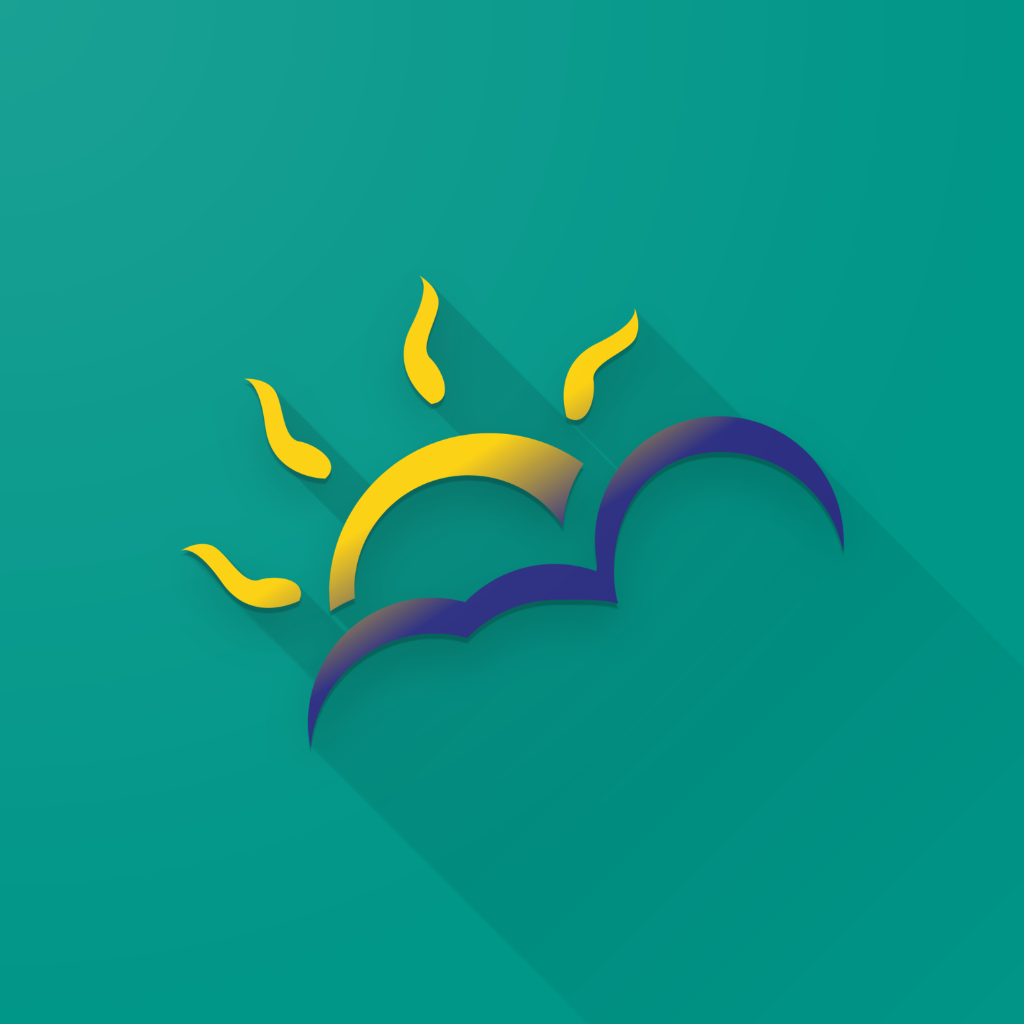
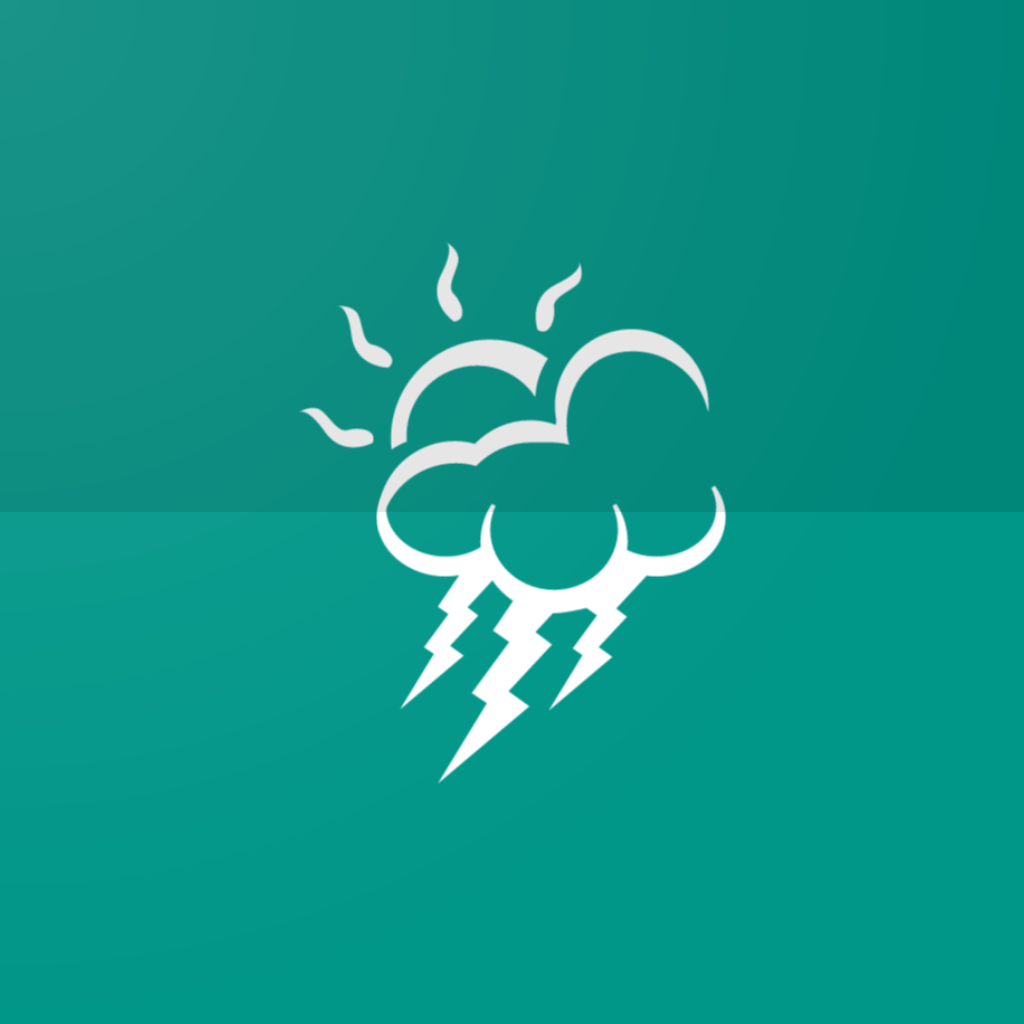
release v2.3.0
-new logo
-app logo was removed from more screen
-apk update

Changed region(s): [[0.1875, 0.25, 0.8438, 0.75], [0.3125, 0.2812, 0.3438, 0.3125]]

diff --git a/lib/screens/more_screen.dart b/lib/screens/more_screen.dart
@@ -6,8 +6,8 @@ import 'package:flutter_weather/preferences/shared_prefs.dart';
 import 'package:flutter_weather/preferences/theme_colors.dart';
 import 'package:flutter_weather/screens/home_screen.dart';
 import 'package:package_info/package_info.dart';
+import 'package:url_launcher/url_launcher.dart';
 
-import 'loading_screen.dart';
 
 class MoreScreen extends StatefulWidget {
   @override
@@ -110,20 +110,6 @@ class _MoreScreenState extends State<MoreScreen> {
                             fontWeight: FontWeight.bold,
                             fontSize: 18,
                             color: Colors.white),
-                      ),
-                    ),
-                    Positioned(
-                      top: 22,
-                      right: 15,
-                      child: Container(
-                        height: 70,
-                        width: 70,
-                        decoration: BoxDecoration(
-                          image: DecorationImage(
-                            image: AssetImage("assets/logo.png"),
-                            fit: BoxFit.fill,
-                          ),
-                        ),
                       ),
                     ),
                   ],

diff --git a/README.md b/README.md
@@ -1,4 +1,4 @@
-## Weather Today <img src="/assets/images/logo.png" alt="Preview" width="50" />
+## Weather Today
 
 Weather Today is a Flutter Application I developed for My University Project :computer:
 
@@ -14,7 +14,7 @@ Weather Today is a Flutter Application I developed for My University Project :co
 
 ## Downloads
 
-**Android:** [APK](https://github.com/kushenthimira/weathertoday/releases/download/v2.0/Android.apk)
+**Android:** [APK](https://github.com/kushenthimira/weathertoday/releases/download/v2.3.0/weathertoday.apk)
 
 ## Contact Me
 
